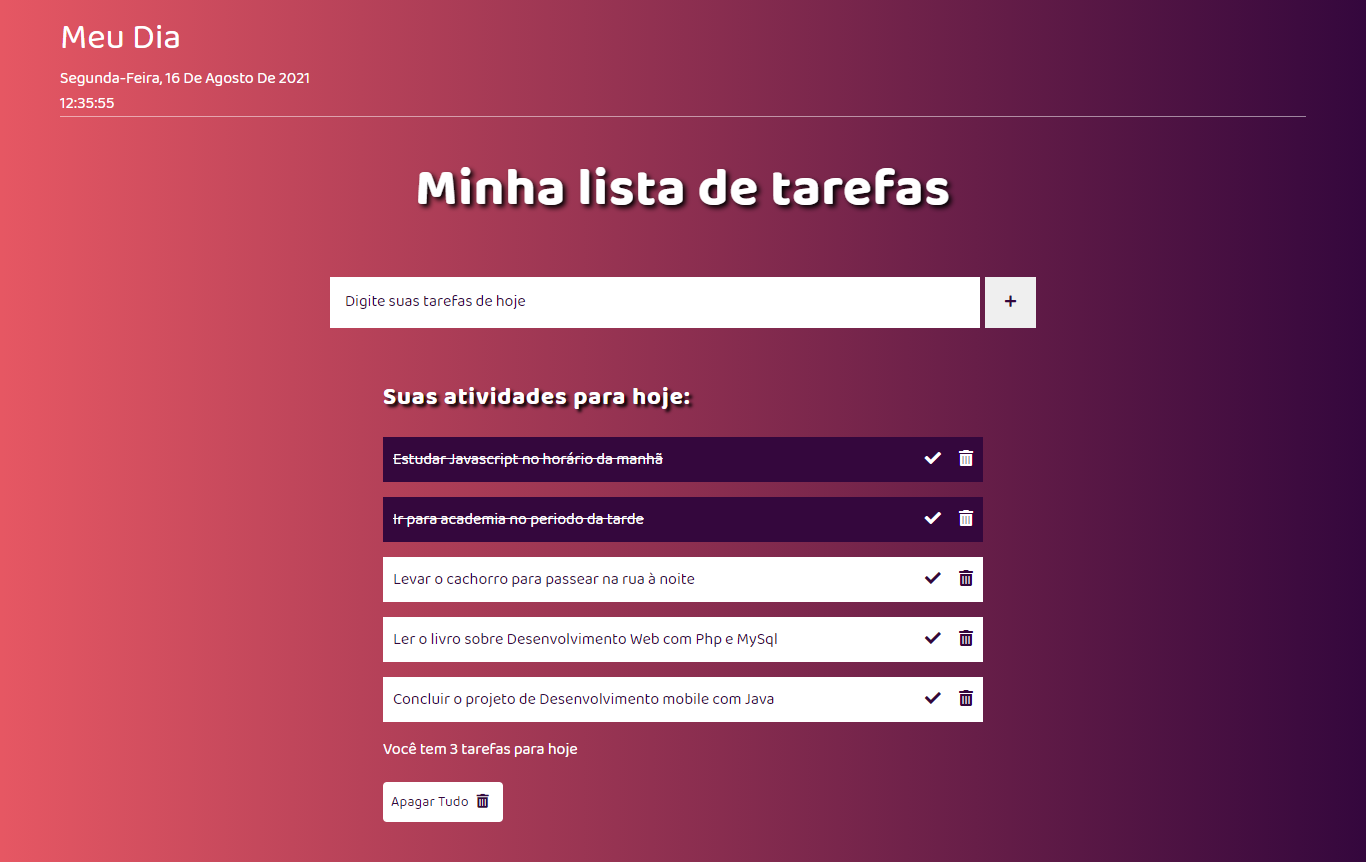
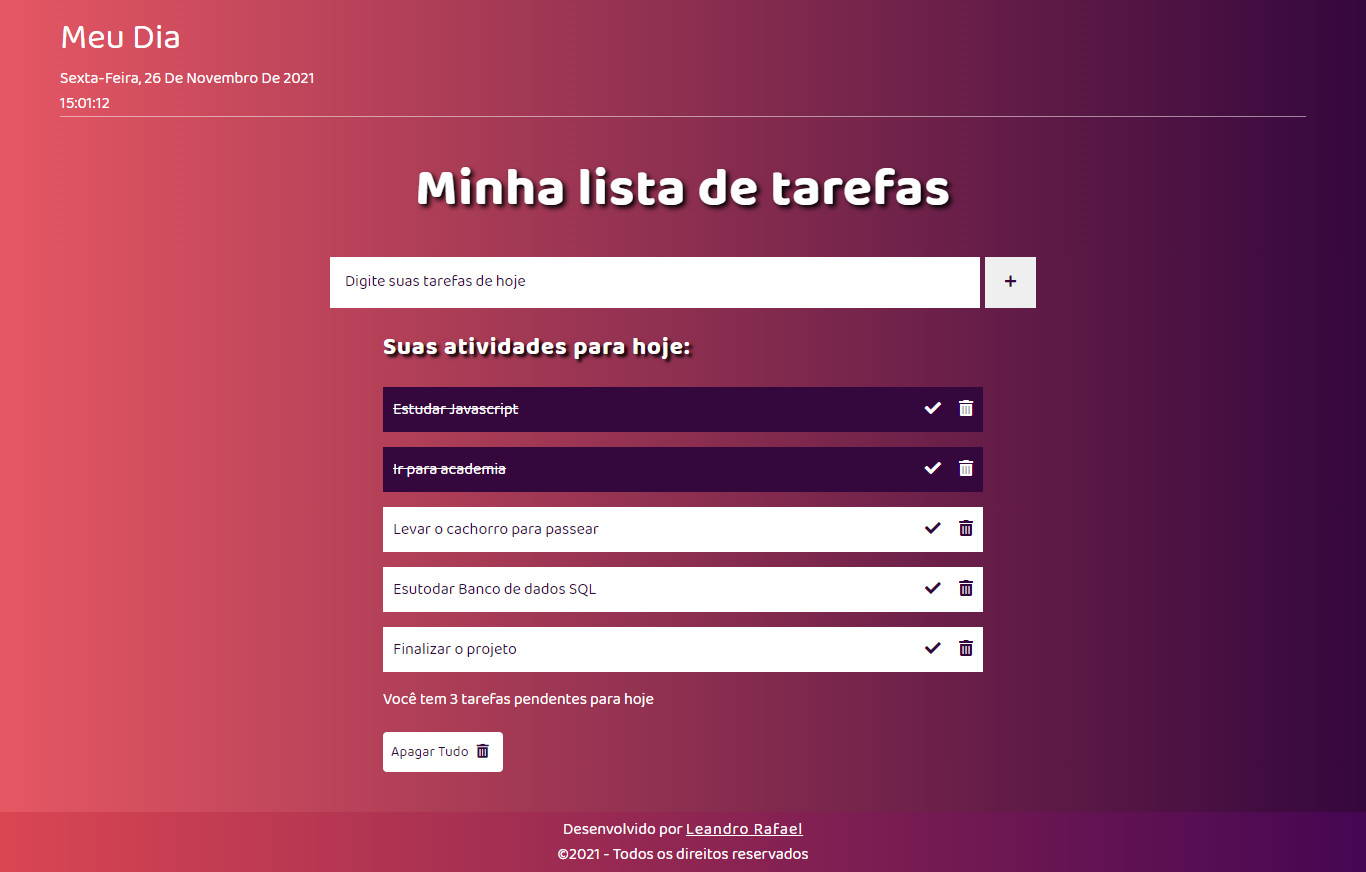
version 2.0

diff --git a/index.html b/index.html
@@ -2,9 +2,12 @@
 <html lang="en">
     <head>
         <meta charset="UTF-8">
+        <title>Todo List</title>
         <meta http-equiv="X-UA-Compatible" content="IE=edge">
         <meta name="viewport" content="width=device-width, initial-scale=1.0">
-        <title>Todo List</title>
+        <meta name="author" content="Leandro Rafael">
+
+        <!--LINKS-->
         <link rel="stylesheet" href="assets/style.css">
         <!--Google Fonts-->
         <link href="https://fonts.googleapis.com/css2?family=Baloo+2:wght@400;500;700&display=swap" rel="stylesheet">
@@ -49,6 +52,11 @@
                 </section>
             </div>
         </main>
+        <!--RODAPE-->
+        <footer>
+            <p>Desenvolvido por <a href="https://www.instagram.com/leandro.rafaeel/" target="_blank">Leandro Rafael</a></p>
+            <p>&copy;<span class="ano"> </span> - Todos os direitos reservados</p>
+        </footer>
     </body>
     <!--script-->
     <script src="assets/script.js"></script>

diff --git a/assets/style.css b/assets/style.css
@@ -53,13 +53,13 @@ ul{
     font-size: 3.3rem;
     letter-spacing: 1px;
     text-shadow: .2rem .2rem .3rem #000;
-    margin-bottom: 45px;
+    margin-bottom: 25px;
 }
 /*form*/
 #form{
     display: flex;
     align-items: center;
-    margin-bottom: 50px;
+    margin-bottom: 20px;
 }
 .task-value{
     width: 650px;
@@ -141,6 +141,16 @@ ul{
 .btn-close{
     width: 120px;
     margin-top: 20px;
+}
+footer{
+    background: linear-gradient(to right, #da4652, #450652);;
+    color: #fff;
+    text-align: center;
+    padding: 5px;
+}
+footer a{
+    color: #fff;
+    letter-spacing: 1px;
 }
 
 /*BREACKPOINT*/

diff --git a/assets/script.js b/assets/script.js
@@ -112,3 +112,10 @@ document.querySelector(".btn-submit").addEventListener("click", function(e){
     e.preventDefault();
     addTarefas();
 });
+
+//funcao copyright
+copyright();
+function copyright(){
+    const copyright = document.querySelector(".ano");
+    copyright.textContent = new Date().getFullYear();
+}
